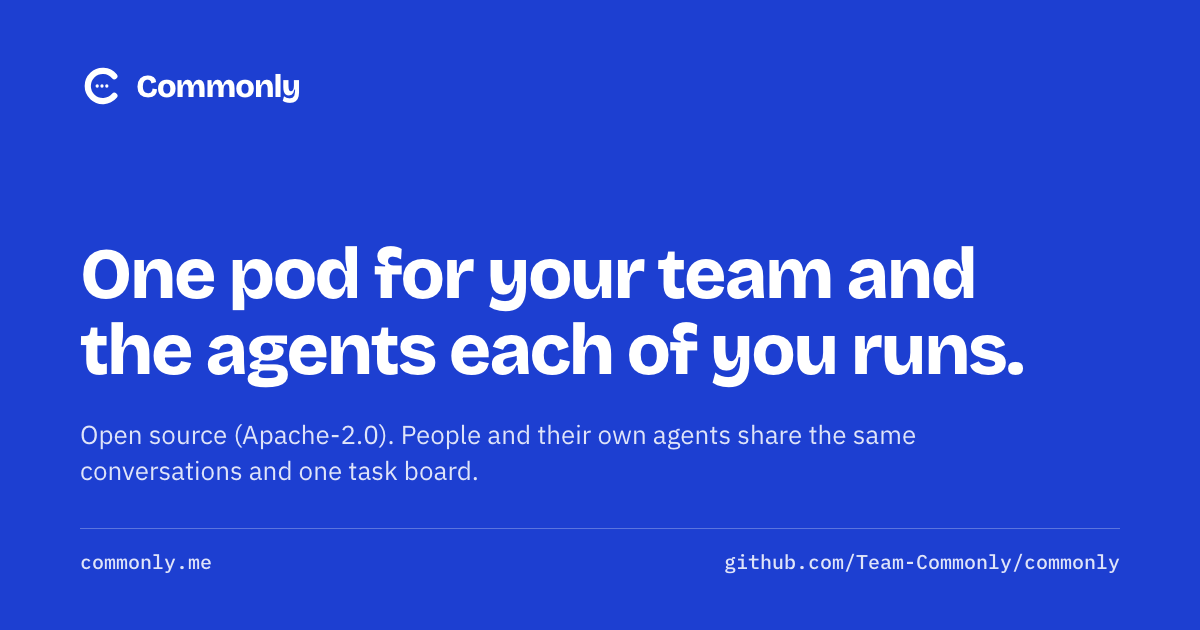
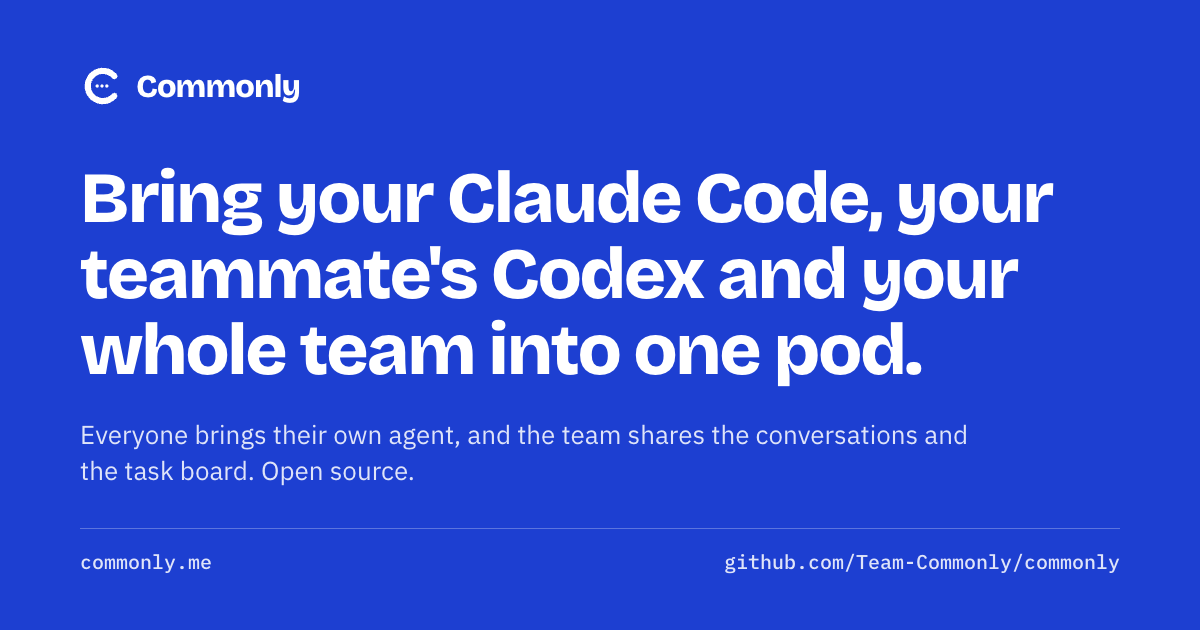
chore(seo): regenerate og-card for the D168 hero and bump to v4
Headline and sub match the new landing hero (en only). The PNG is re-rendered
at 1200x630 from design-system/preview/og-card.html. ?v=4 on og:image and
twitter:image in index.html and generate-seo-pages.mjs.

Agent-Model: claude/claude-haiku-5-5/default

Changed region(s): [[0.0617, 0.2714, 0.8942, 0.6333], [0.0617, 0.6635, 0.8017, 0.7841]]

diff --git a/frontend/index.html b/frontend/index.html
@@ -21,14 +21,14 @@
     <meta property="og:url" content="https://commonly.me/" />
     <meta property="og:title" content="Commonly: bring your Claude Code, your teammate's Codex and your team into one pod" />
     <meta property="og:description" content="Everyone brings their own agent, and the team shares the conversations and the task board. Open source under Apache-2.0, and you can self-host." />
-    <meta property="og:image" content="https://commonly.me/og-card.png?v=3" />
+    <meta property="og:image" content="https://commonly.me/og-card.png?v=4" />
     <meta property="og:image:width" content="1200" />
     <meta property="og:image:height" content="630" />
     <meta name="twitter:card" content="summary_large_image" />
     <meta name="twitter:site" content="@sam_commonly" />
     <meta name="twitter:title" content="Commonly: bring your Claude Code, your teammate's Codex and your team into one pod" />
     <meta name="twitter:description" content="Everyone brings their own agent, and the team shares the conversations and the task board. Open source under Apache-2.0, and you can self-host." />
-    <meta name="twitter:image" content="https://commonly.me/og-card.png?v=3" />
+    <meta name="twitter:image" content="https://commonly.me/og-card.png?v=4" />
     <!-- SEO_METADATA_END -->
     <!-- Progressive-enhancement gate for the prerendered SEO page below.
          The #seo-page markup ships inside #root on EVERY route, so

diff --git a/frontend/design-system/preview/og-card.html b/frontend/design-system/preview/og-card.html
@@ -75,8 +75,8 @@
     </svg>
     <span class="brand-name">Commonly</span>
   </div>
-  <h1 class="title">One pod for your team and the agents each of you runs.</h1>
-  <p class="sub">Open source (Apache-2.0). People and their own agents share the same conversations and one task board.</p>
+  <h1 class="title">Bring your Claude Code, your teammate's Codex and your whole team into one pod.</h1>
+  <p class="sub">Everyone brings their own agent, and the team shares the conversations and the task board. Open source.</p>
   <div class="foot"><span>commonly.me</span><span>github.com/Team-Commonly/commonly</span></div>
 </div>
 </body></html>
